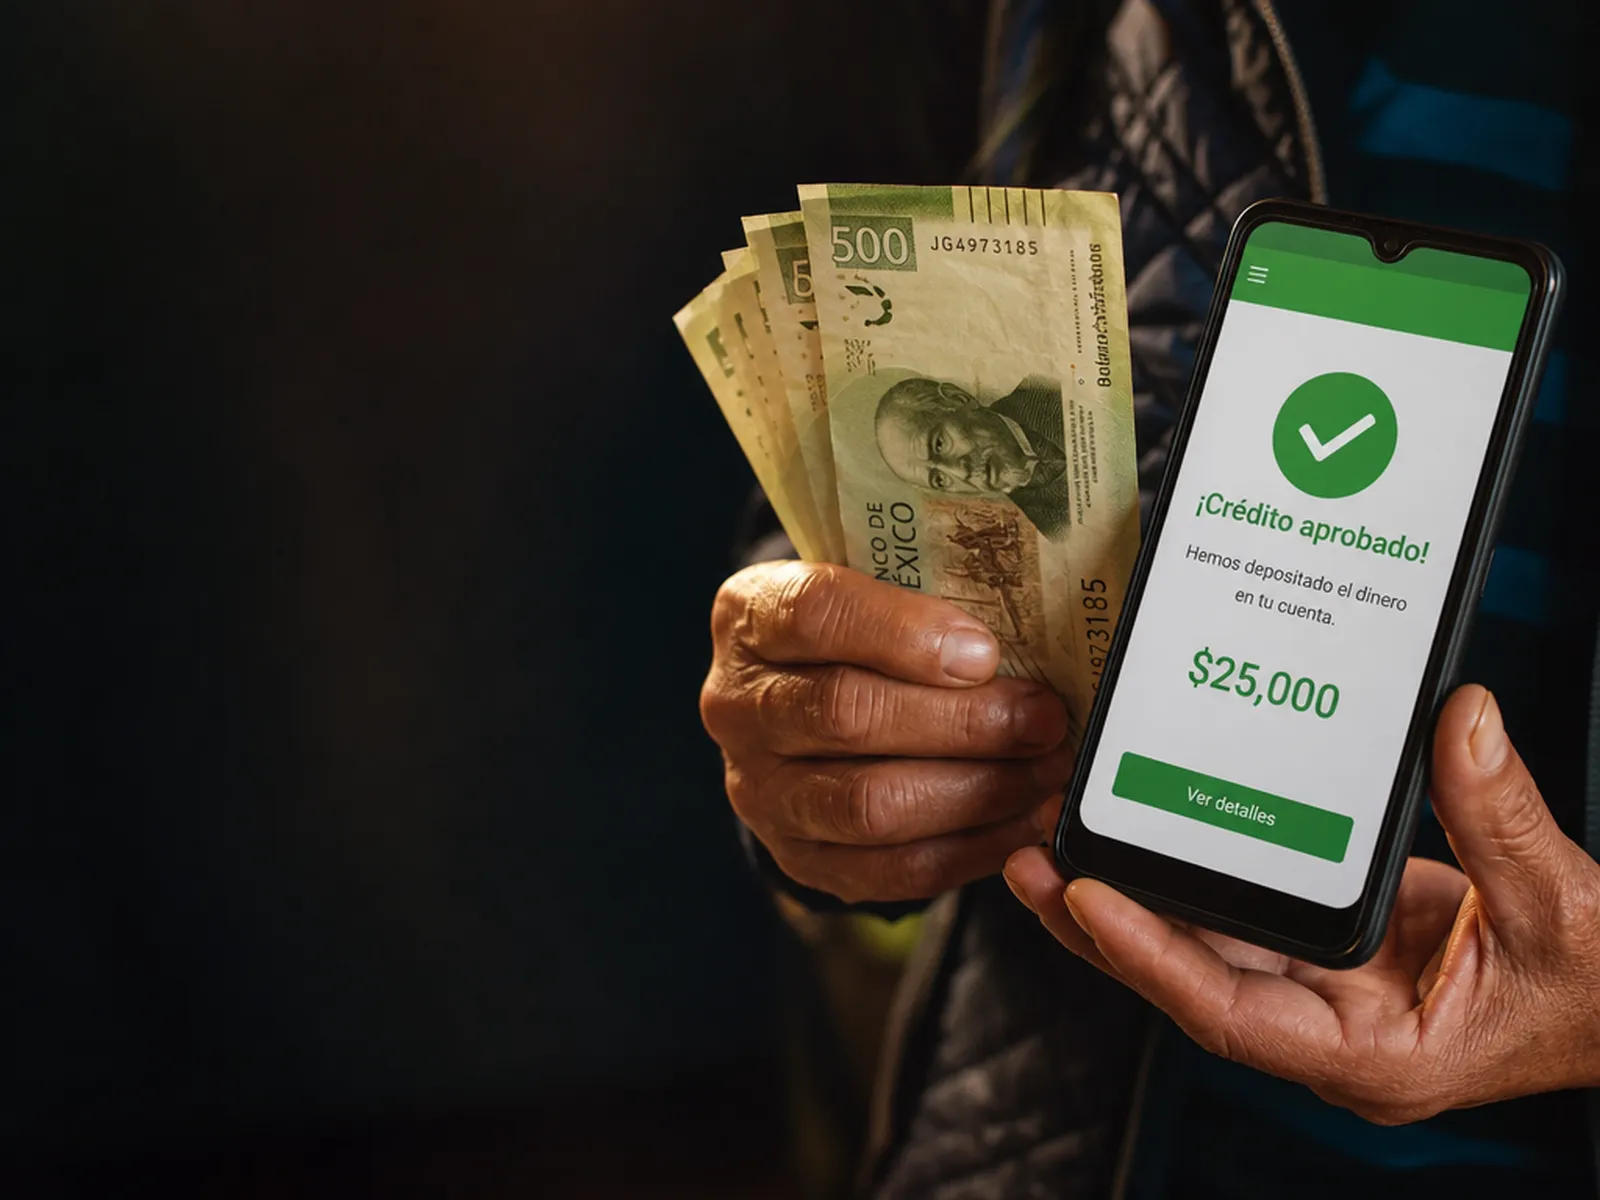
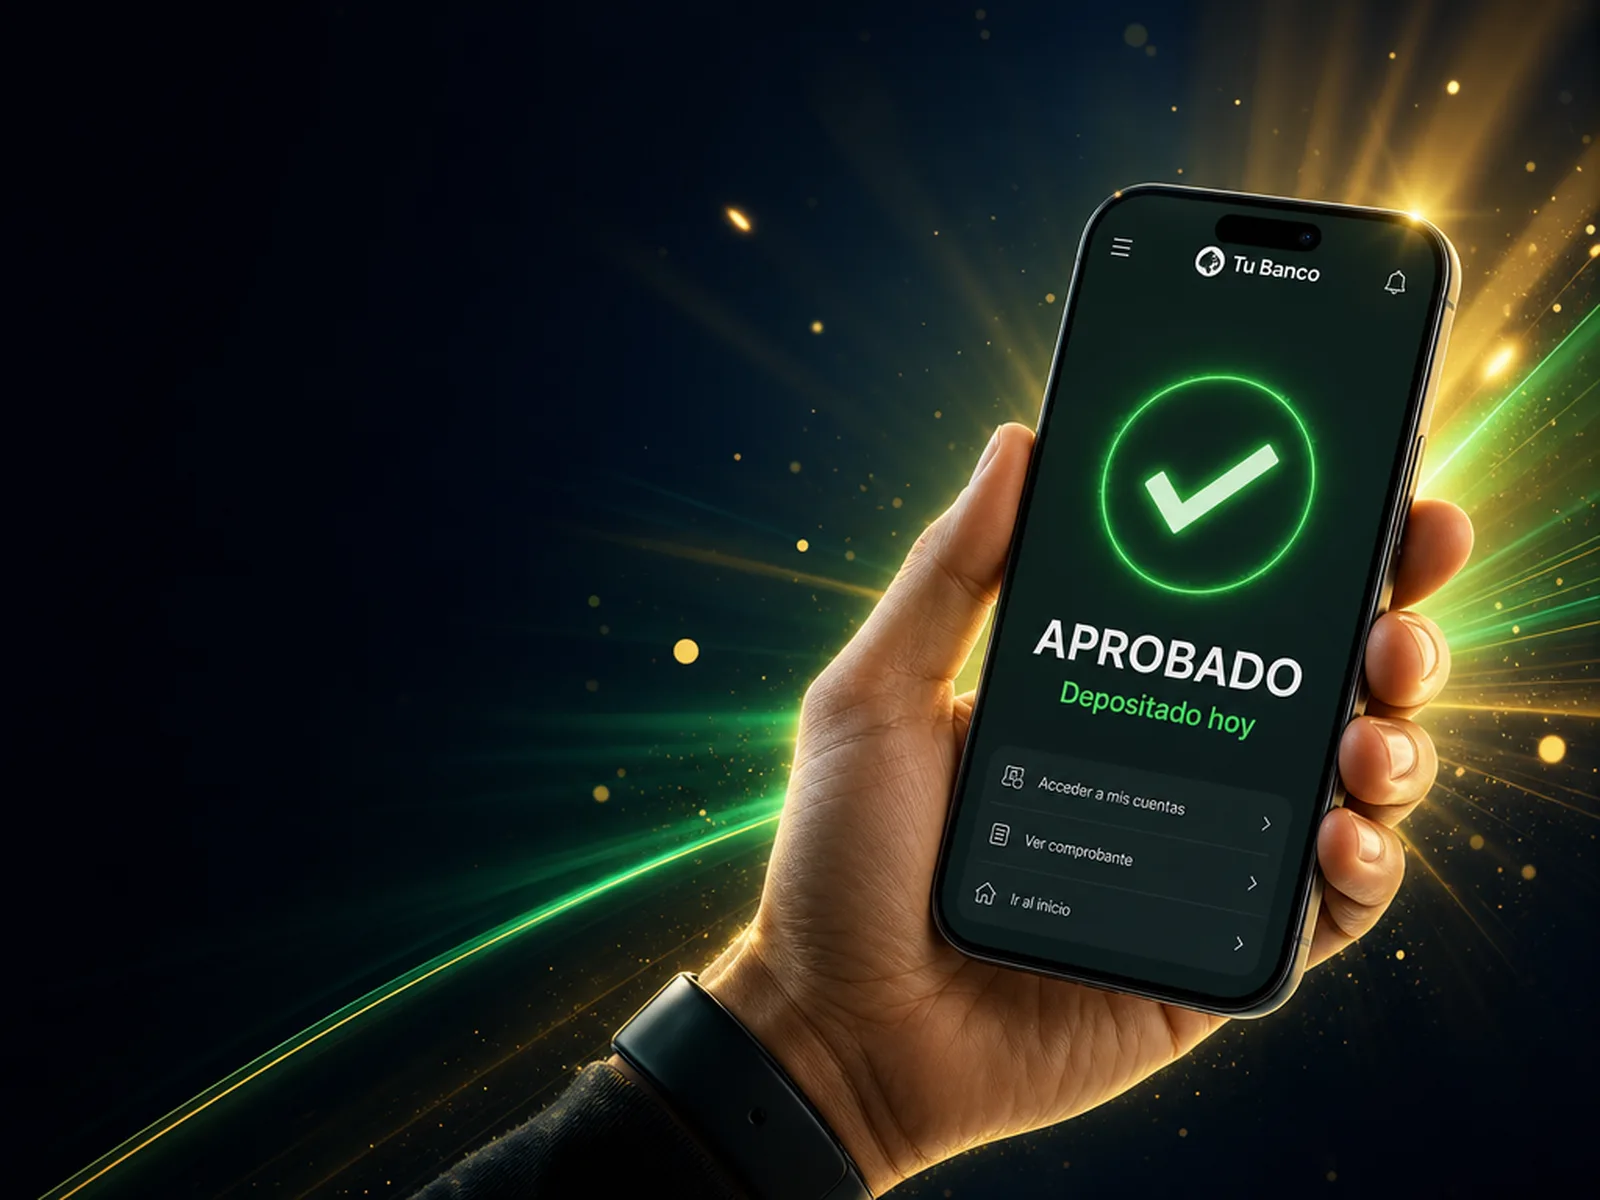
Funnel: fondo con foto de energía (aprobado HOY) + resplandores animados de urgencia

diff --git a/components/site/RapidFunnel.tsx b/components/site/RapidFunnel.tsx
@@ -53,24 +53,44 @@ export function RapidFunnel() {
     "w-full rounded-xl border border-navy-900/12 bg-cream-50 px-4 py-3 text-base text-navy-900 placeholder:text-ink-400 outline-none transition focus:border-gold-500 focus:ring-2 focus:ring-gold-500/30";
 
   return (
-    <section className="relative overflow-hidden bg-gradient-to-br from-gold-500/15 via-navy-950 to-navy-950 py-20 text-cream-50 sm:py-24">
-      <div className="pointer-events-none absolute inset-0 opacity-[0.04]"
+    <section className="relative overflow-hidden py-20 text-cream-50 sm:py-24">
+      {/* Fondo de foto real con punch */}
+      <div
+        className="absolute inset-0 bg-cover bg-center"
+        style={{ backgroundImage: "url(/fotos/funnel-bg.webp)" }}
+      />
+      {/* Velo oscuro para legibilidad (más fuerte a la izquierda donde va el texto) */}
+      <div className="absolute inset-0 bg-gradient-to-r from-navy-950 via-navy-950/85 to-navy-950/40" />
+      <div className="absolute inset-0 bg-navy-950/30" />
+
+      {/* Resplandores animados dorados y verdes para dar punch */}
+      <div className="pointer-events-none absolute -left-20 top-1/3 h-72 w-72 rounded-full bg-gold-500/25 blur-3xl animate-pulse" />
+      <div className="pointer-events-none absolute right-0 top-1/2 h-80 w-80 rounded-full bg-[#25D366]/20 blur-3xl animate-pulse [animation-delay:0.8s]" />
+
+      {/* Textura de cuadrícula sutil */}
+      <div
+        className="pointer-events-none absolute inset-0 opacity-[0.04]"
         style={{
           backgroundImage:
             "linear-gradient(rgba(255,255,255,0.5) 1px, transparent 1px), linear-gradient(90deg, rgba(255,255,255,0.5) 1px, transparent 1px)",
           backgroundSize: "48px 48px",
         }}
       />
+
       <div className="relative mx-auto grid max-w-6xl items-center gap-10 px-4 sm:px-6 lg:grid-cols-2">
         {/* Hook de impulso */}
         <div className="flex flex-col items-start gap-6">
-          <span className="rounded-full bg-[#25D366] px-4 py-1.5 text-xs font-bold uppercase tracking-wider text-white">
+          <span className="inline-flex items-center gap-2 rounded-full bg-[#25D366] px-4 py-1.5 text-xs font-bold uppercase tracking-wider text-white shadow-[0_0_25px_-4px_rgba(37,211,102,0.9)]">
+            <span className="inline-block h-2 w-2 animate-ping rounded-full bg-white" />
             ⚡ Acción rápida · 60 segundos
           </span>
           <h2 className="font-display text-4xl font-semibold leading-[1.08] tracking-tight sm:text-5xl">
-            ¿Necesitas tu crédito <span className="italic text-gold-300">HOY?</span>
+            ¿Necesitas tu crédito{" "}
+            <span className="italic text-gold-300 drop-shadow-[0_0_18px_rgba(212,175,55,0.7)]">
+              HOY?
+            </span>
           </h2>
-          <ul className="space-y-3 text-lg text-cream-50/85">
+          <ul className="space-y-3 text-lg text-cream-50/90">
             <li className="flex items-start gap-3">
               <span className="mt-1 text-gold-300">✓</span>
               Aprobado y depositado el mismo día si solicitas antes de las 3:00 pm.
@@ -84,13 +104,13 @@ export function RapidFunnel() {
               Asesoría personalizada de principio a fin.
             </li>
           </ul>
-          <p className="text-sm text-cream-50/60">
+          <p className="text-sm text-cream-50/70">
             Déjanos tu información y un asesor te contacta de inmediato para revisar tu caso.
           </p>
         </div>
 
         {/* Formulario exprés */}
-        <div className="rounded-3xl bg-white p-7 text-navy-900 shadow-[0_30px_60px_-20px_rgba(0,0,0,0.6)] sm:p-9">
+        <div className="rounded-3xl bg-white p-7 text-navy-900 shadow-[0_30px_60px_-20px_rgba(0,0,0,0.7)] sm:p-9">
           {estado === "ok" ? (
             <div className="flex flex-col items-center gap-4 py-10 text-center">
               <span className="flex h-16 w-16 items-center justify-center rounded-full bg-[#25D366]/15 text-3xl text-[#25D366]">
@@ -161,7 +181,7 @@ export function RapidFunnel() {
               <button
                 type="submit"
                 disabled={estado === "enviando"}
-                className="w-full rounded-full bg-[#25D366] py-3.5 text-base font-semibold text-white shadow-[0_10px_30px_-6px_rgba(37,211,102,0.6)] transition hover:bg-[#1ebe5b] disabled:opacity-60"
+                className="w-full rounded-full bg-[#25D366] py-3.5 text-base font-semibold text-white shadow-[0_10px_30px_-6px_rgba(37,211,102,0.7)] transition hover:bg-[#1ebe5b] disabled:opacity-60"
               >
                 {estado === "enviando" ? "Enviando..." : "Solicitar mi crédito →"}
               </button>
